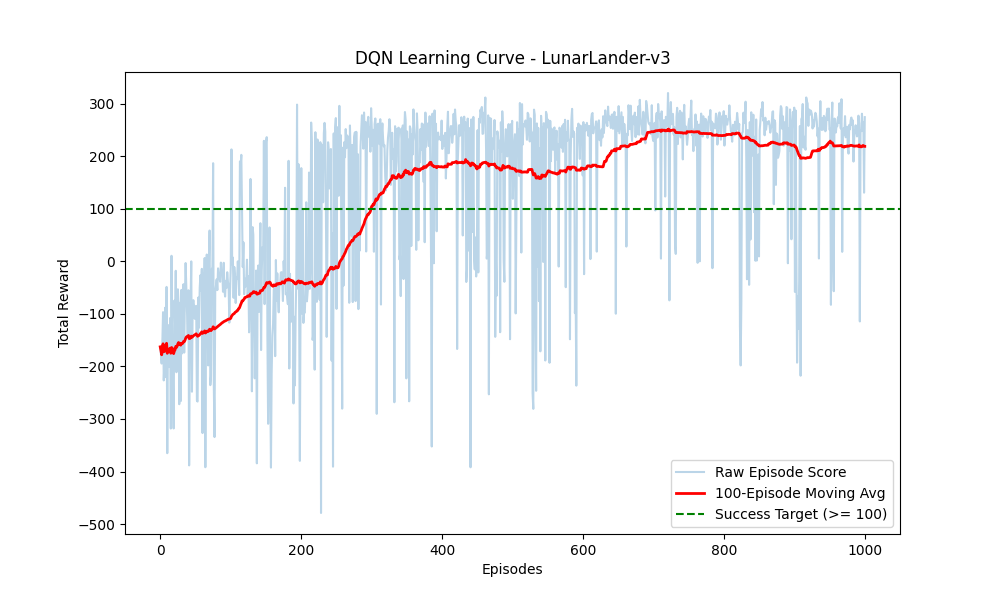
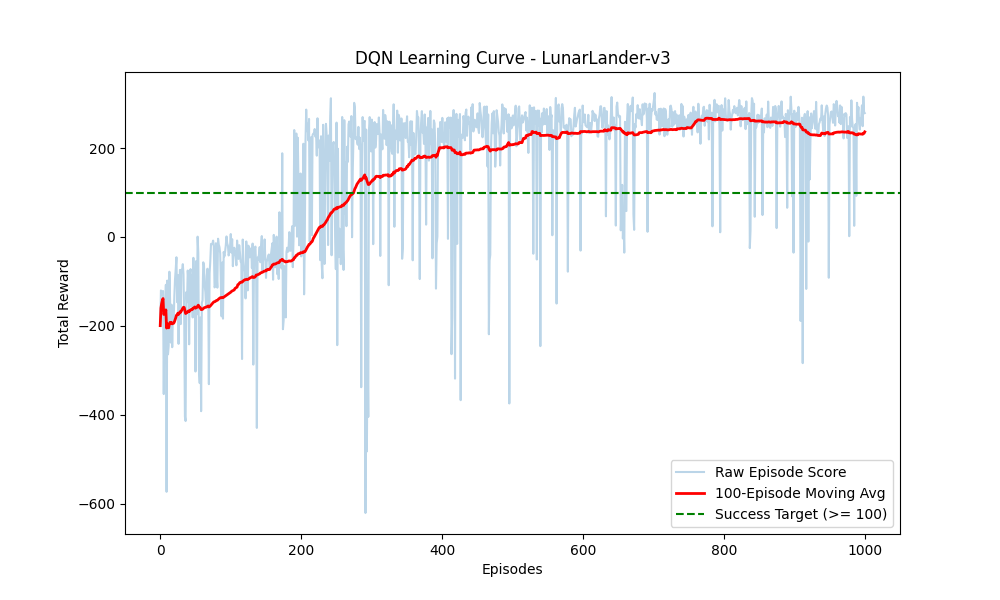
images

diff --git a/launch_tensorboard.py b/launch_tensorboard.py
@@ -1,0 +1,15 @@
+#!/usr/bin/env python
+"""Launch TensorBoard to visualize training logs."""
+
+import subprocess
+import os
+import sys
+
+# Set the logs directory
+logs_dir = os.path.join(os.path.dirname(__file__), 'logs')
+
+print(f"Launching TensorBoard with logs from: {logs_dir}")
+print("TensorBoard will be available at: http://localhost:6006")
+
+# Launch TensorBoard
+subprocess.run([sys.executable, '-m', 'tensorboard.main', f'--logdir={logs_dir}'])